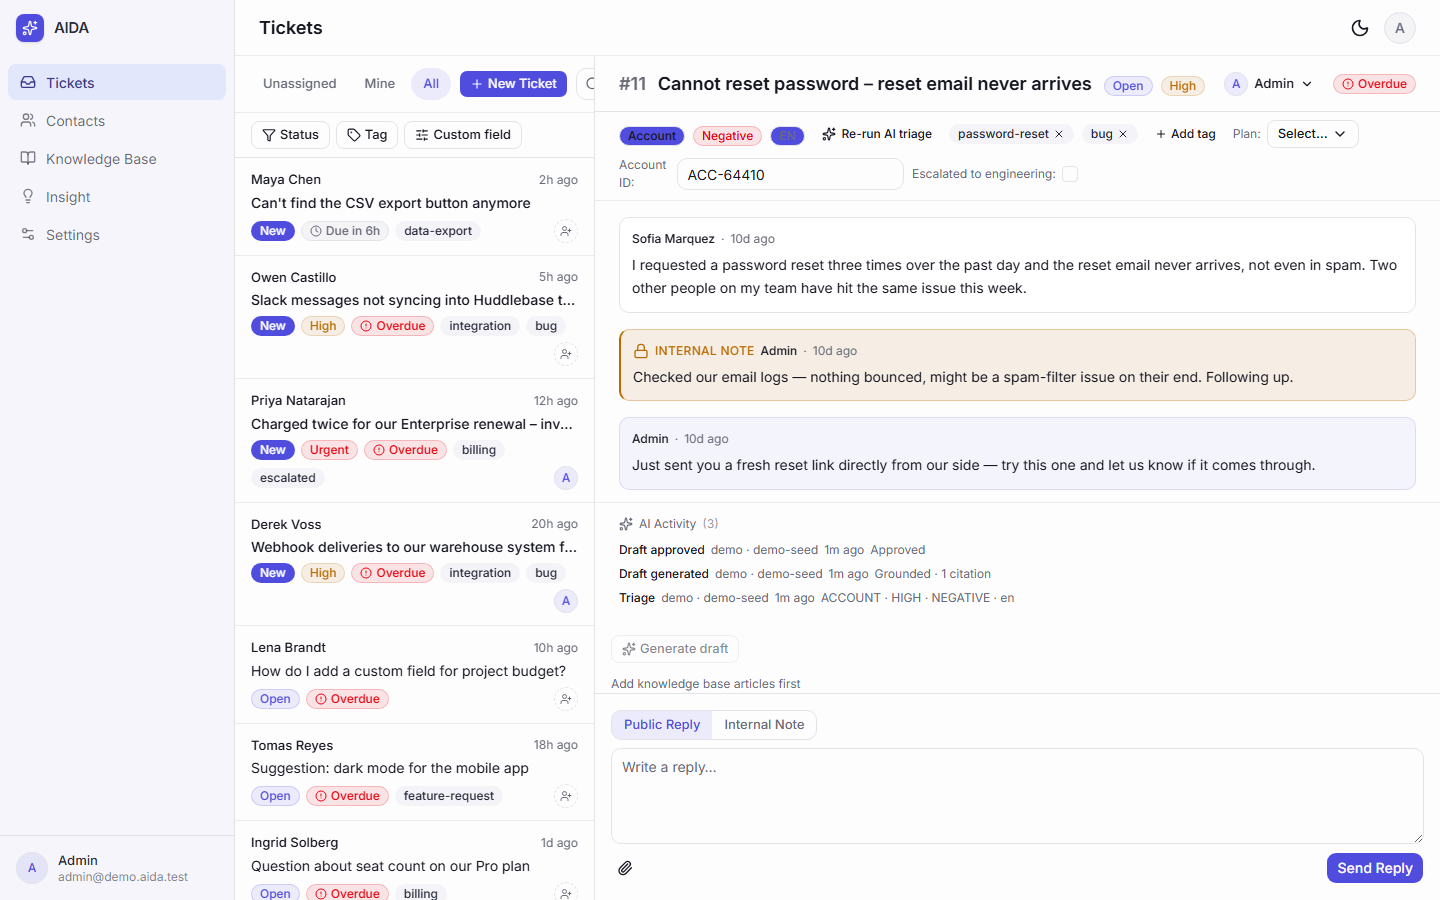
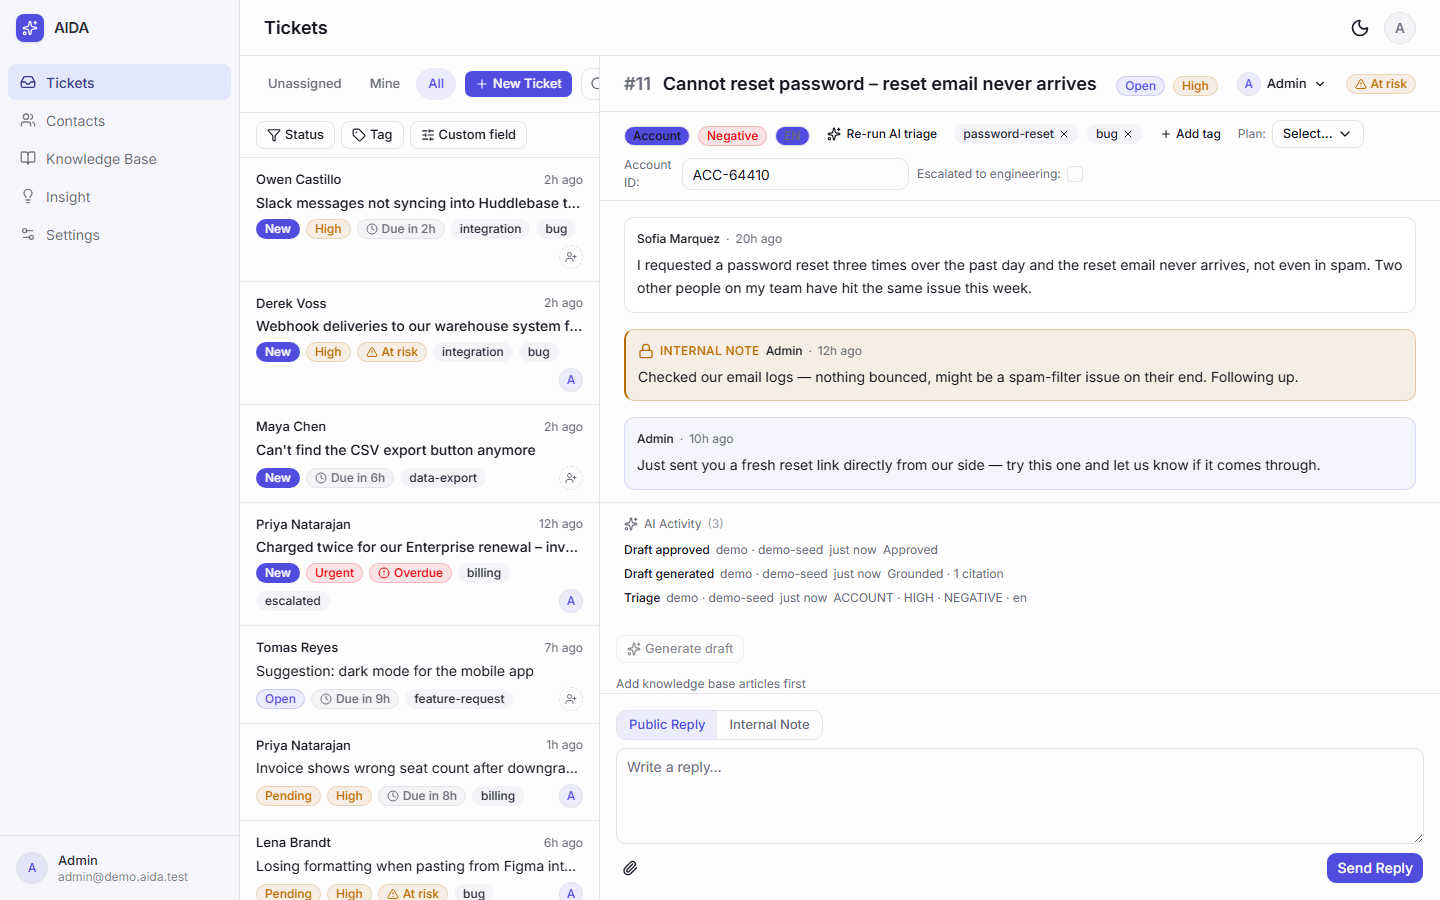
fix(07-08): re-capture launch assets against reconciled SLA data + trimmed GIF
Full re-capture (pnpm demo:capture + pnpm demo:capture -- --record) against
the corrected fixtures (432d41f) and capture script (1e7efef):

- Nine PNGs regenerated (settings-ai(.png/-dark.png) unaffected by either
  defect and byte-identical, not re-committed). Inbox now shows a believable
  mix in the first 7 visible rows (4 on-track "Due in Xh", 2 at-risk,
  1 breached "Overdue") instead of a wall of red; no "Due in -" anywhere.
  Insights (both themes) still render all four cards complete, uncut.
- aida-demo.gif re-recorded (23.3s) and re-converted with the measured
  2.13s pre-roll trim -> 20.25s final runtime, 4,957,842 -> 5,001,474 bytes,
  both within budget. Frame 1 (and the full first ~1s) is now the
  fully-painted /tickets inbox — verified via a full sequential frame decode
  (not a `select`-filtered one, to rule out GIF disposal-compositing
  artifacts), no blank frame, no loading skeleton, no error toast anywhere
  sampled across the timeline.
- Logged one new out-of-scope finding to deferred-items.md: ticket #11's
  SLA chip is briefly not visible early in the recording at the 1280px
  recording viewport (confirmed correct in the 1440px static screenshot,
  so not a rendering-logic bug) — not caused by either defect fixed this
  round, left for the maintainer to weigh in on at the Task 3 checkpoint.

diff --git a/.planning/phases/07-launch-readiness/deferred-items.md b/.planning/phases/07-launch-readiness/deferred-items.md
@@ -27,6 +27,30 @@ D-16's fallback clause is explicit — if logo upload is disproportionately heav
 1. **`POSTGRES_PASSWORD` is never URL-encoded into `DATABASE_URL`.** `docker-compose.yml` interpolates it raw into `postgresql://${POSTGRES_USER:-aida}:${POSTGRES_PASSWORD}@db:5432/...` in three places (db, app, worker). A password containing a URL-reserved character (`/`, `@`, `:`, `#`, `?`) silently produces an unparseable connection string — hit for real during 07-07's cold boot when a `openssl rand -base64 32` password contained `/`. **Not currently triggered by our own docs**: `.env.example` ships `POSTGRES_PASSWORD=aida` and the `openssl rand -base64 32` guidance is attached only to `BETTER_AUTH_SECRET`/`RATE_LIMIT_PEPPER`/`APP_ENCRYPTION_KEY`, none of which go into a URL. Left unfixed as out of scope for a demo-mode plan. **Flagged for 07-09's security pass** — the cheapest fix is a one-line note in `.env.example`/`docs/OPERATIONS.md` telling self-hosters to use a URL-safe password (`openssl rand -hex 24`), rather than encoding logic in compose.
 2. **Third `auth.api.signUpEmail` call site is pre-existing and legitimate.** 07-07's acceptance criterion asked for exactly two call sites (`src/lib/bootstrap.ts`, `src/lib/demo/identities.ts`). A third exists at `src/app/(auth)/setup/actions.ts:45` — the interactive `/setup` wizard, whose contract differs (human-chosen org name/slug vs. `createFirstOrgAndAdmin`'s hardcoded `"AIDA"`/`"aida"`). Not in 07-07's `files_modified`, so untouched. Both of the plan's *own* entrypoints (CLI seed + demo boot) do share `ensureDemoIdentities()`. Noted so 07-09 does not re-flag it as a duplicate-identity-logic finding.
 
+## From 07-08 correction round (SLA data reconciliation + GIF pre-roll trim)
+
+1. **Hero GIF: ticket #11's header `SlaDueChip` ("At risk") is not visible for roughly the first
+   4-5s after the ticket opens (recording viewport 1280px), then appears and stays visible for the
+   rest of the clip.** Discovered while frame-by-frame verifying the defect-B pre-roll trim (fully
+   sequential decode of every GIF frame, ruling out a `select`-filter compositing artifact first).
+   Confirmed NOT a rendering-logic bug: the fully-settled static `ticket-detail.png` (1440px
+   viewport, same ticket, same data) shows the "At risk" chip correctly and legibly. In the video
+   recording specifically, frames from roughly the ticket-open moment through the early
+   thread-scroll step show the sidebar starting flush at the left edge with the header's trailing
+   SLA chip apparently pushed past the 1280px viewport edge; frames from partway through the
+   thread-scroll step onward show the identical content shifted — sidebar text clipped
+   ("ts"/"dge Base") on the left, chip now visible on the right — consistent with a real (if
+   narrow) horizontal viewport/content-width event mid-recording, not a data or SSR bug. Does not
+   match any of the plan's explicit GIF-reject criteria (no loading skeleton, no error toast, no
+   blank screen — the page is fully rendered and correct throughout, just missing one badge for a
+   few seconds at a viewport width narrower than the app's normal 1440px screenshot capture width).
+   Not touched: neither `ticket-meta-header.tsx`/`sla-due-chip.tsx` nor the recording's viewport/
+   choreography were modified by this round's defect A (fixtures/seed data) or defect B (ffmpeg
+   `-ss` pre-roll trim) — out of scope to chase further or fix here. Flagged for the maintainer to
+   weigh in on at the Task 3 checkpoint; if it recurs and matters, the cheapest next step is
+   probably reproducing it live in a headed browser at exactly 1280x800 to find the real trigger
+   (likely a horizontal-overflow/scrollbar interaction) before touching any component.
+
 ## From 07-06 (docs site)
 
 - Enable GitHub Pages with Source = GitHub Actions (repo Settings > Pages) — one-time, human-only.
